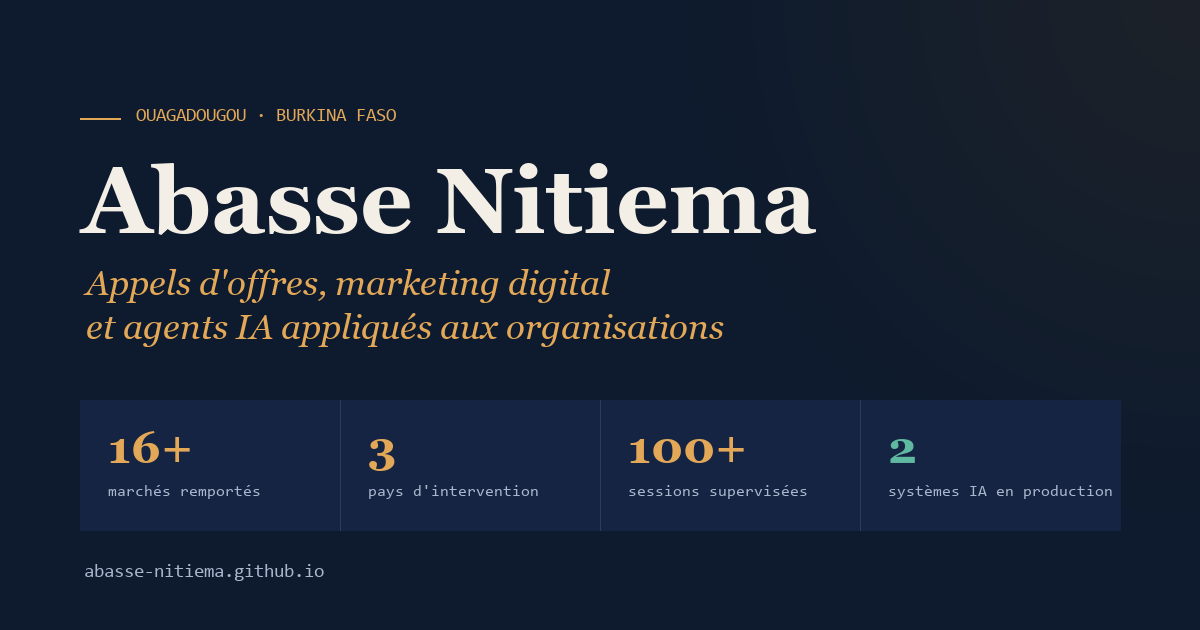
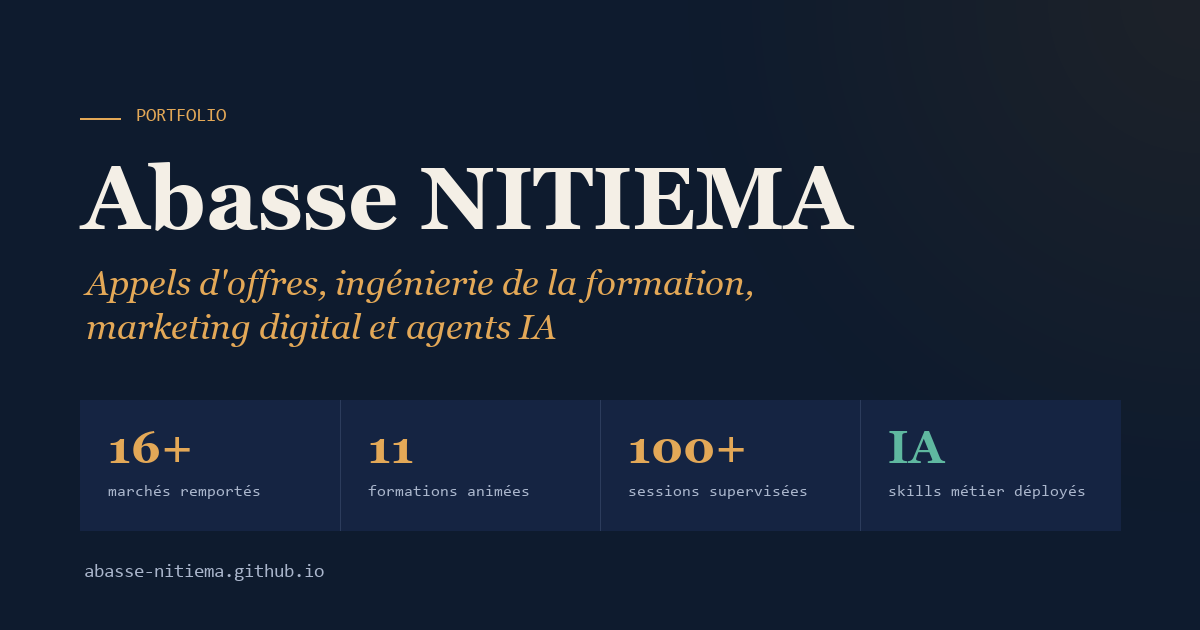
Portfolio : ingénierie de la formation, nom en majuscules, lieux retirés

diff --git a/index.html b/index.html
@@ -3,14 +3,14 @@
 <head>
 <meta charset="UTF-8">
 <meta name="viewport" content="width=device-width, initial-scale=1.0, viewport-fit=cover">
-<title>Abasse Nitiema · Développement international, marketing digital et IA appliquée</title>
-<meta name="description" content="Portfolio d'Abasse Nitiema, Responsable de la Prospection Internationale et de l'Innovation chez Building Business. Prospection, appels d'offres (plus de 16 marchés remportés), communication et marketing digital, et des skills d'agents IA construits pour l'équipe du cabinet.">
+<title>Abasse NITIEMA · Appels d'offres, ingénierie de la formation, marketing digital et IA appliquée</title>
+<meta name="description" content="Portfolio d'Abasse NITIEMA, Responsable de la Prospection Internationale et de l'Innovation chez Building Business. Appels d'offres (plus de 16 marchés remportés), ingénierie de la formation, communication et marketing digital, et des skills d'agents IA construits pour l'équipe du cabinet.">
 <link rel="canonical" href="https://abasse-nitiema.github.io/">
 <meta name="theme-color" content="#0E1B2E">
 
 <meta property="og:type" content="profile">
-<meta property="og:title" content="Abasse Nitiema · Développement international, marketing digital et IA appliquée">
-<meta property="og:description" content="Plus de 16 marchés remportés au Burkina Faso, au Niger et en Guinée. Des skills d'agents IA construits pour l'équipe d'un cabinet : réponse aux appels d'offres, formation, communication. Une méthode transposable.">
+<meta property="og:title" content="Abasse NITIEMA · Appels d'offres, ingénierie de la formation, marketing digital et IA appliquée">
+<meta property="og:description" content="Plus de 16 marchés remportés. Des skills d'agents IA construits pour l'équipe d'un cabinet : réponse aux appels d'offres, formation, communication. Une méthode transposable.">
 <meta property="og:url" content="https://abasse-nitiema.github.io/">
 <meta property="og:image" content="https://abasse-nitiema.github.io/assets/og-abasse-nitiema.png">
 <meta property="og:image:width" content="1200">
@@ -18,7 +18,7 @@
 <meta property="og:locale" content="fr_FR">
 <meta property="og:locale:alternate" content="en_US">
 <meta name="twitter:card" content="summary_large_image">
-<meta name="twitter:title" content="Abasse Nitiema · Développement international, marketing digital et IA appliquée">
+<meta name="twitter:title" content="Abasse NITIEMA · Appels d'offres, ingénierie de la formation, marketing digital et IA appliquée">
 <meta name="twitter:description" content="Plus de 16 marchés remportés. Des skills d'agents IA pour l'équipe : appels d'offres, formation, communication.">
 <meta name="twitter:image" content="https://abasse-nitiema.github.io/assets/og-abasse-nitiema.png">
 
@@ -26,7 +26,7 @@
 {
   "@context": "https://schema.org",
   "@type": "Person",
-  "name": "Abasse Nitiema",
+  "name": "Abasse NITIEMA",
   "url": "https://abasse-nitiema.github.io/",
   "email": "mailto:abassenitiema4@gmail.com",
   "telephone": "+22672919005",
@@ -292,7 +292,7 @@ svg.chain{ width:100%; height:auto; display:block; }
 @media (prefers-reduced-motion: reduce){ .pulse{ animation:none; opacity:0.9; } }
 
 /* ---------- PILLARS ---------- */
-.pillars{ display:grid; grid-template-columns:repeat(3,1fr); gap:1px; background:var(--line); border:1px solid var(--line); }
+.pillars{ display:grid; grid-template-columns:repeat(2,1fr); gap:1px; background:var(--line); border:1px solid var(--line); }
 @media (max-width:860px){ .pillars{ grid-template-columns:1fr; } }
 .pillar{ background:var(--panel); padding:clamp(22px, 3vw, 30px) clamp(18px, 3vw, 26px); }
 .pillar .tag{ font-family:var(--mono); font-size:11px; color:var(--signal); letter-spacing:0.08em; text-transform:uppercase; margin-bottom:14px; display:block; }
@@ -408,9 +408,9 @@ footer{ padding:clamp(56px, 7vw, 84px) 0 40px; border-top:1px solid var(--line);
   <div class="wrap">
     <div class="hero-grid">
       <div>
-        <div class="eyebrow">Abasse Nitiema · Ouagadougou, Burkina Faso</div>
+        <div class="eyebrow">Abasse NITIEMA · Portfolio</div>
         <h1 data-i18n="hero-h1">Je monte les offres qui remportent des marchés, <em>et je construis les agents IA</em> qui font gagner du temps aux équipes.</h1>
-        <p class="lead" data-i18n="hero-lead">Responsable de la Prospection Internationale et de l'Innovation chez <strong>Building Business</strong>, cabinet certifié ISO&nbsp;9001 et ISO&nbsp;21001. Plus de 16 marchés remportés depuis 2019 au Burkina Faso, au Niger et en Guinée. De cette pratique, j'ai tiré une méthode d'automatisation que j'applique aux appels d'offres, à la communication et aux autres processus d'une organisation.</p>
+        <p class="lead" data-i18n="hero-lead">Responsable de la Prospection Internationale et de l'Innovation chez <strong>Building Business</strong>, cabinet certifié ISO&nbsp;9001 et ISO&nbsp;21001. Plus de 16 marchés remportés depuis 2019 auprès d'institutions publiques, d'entreprises et de bailleurs internationaux. De cette pratique, j'ai tiré une méthode d'automatisation que j'applique aux appels d'offres, à la formation, à la communication et aux autres processus d'une organisation.</p>
         <div class="hero-ctas">
           <a class="btn-primary" href="#systemes" data-i18n="hero-cta2">Voir les systèmes</a>
           <a class="btn-ghost" href="#offre" data-i18n="hero-cta1">Travailler avec moi</a>
@@ -421,8 +421,8 @@ footer{ padding:clamp(56px, 7vw, 84px) 0 40px; border-top:1px solid var(--line);
         <div class="cap" id="brief-cap" data-i18n="br-cap">En bref</div>
         <dl>
           <div class="row"><dt data-i18n="br-l1">Poste</dt><dd data-i18n="br-v1">Responsable de la Prospection Internationale et de l'Innovation<span>Building Business, depuis septembre 2026</span></dd></div>
-          <div class="row"><dt data-i18n="br-l2">Métiers</dt><dd data-i18n="br-v2">Prospection et appels d'offres<span>Communication et marketing digital · IA appliquée</span></dd></div>
-          <div class="row"><dt data-i18n="br-l3">Terrain</dt><dd data-i18n="br-v3">Burkina Faso, Niger, Guinée<span>institutions publiques, entreprises, bailleurs internationaux</span></dd></div>
+          <div class="row"><dt data-i18n="br-l2">Métiers</dt><dd data-i18n="br-v2">Appels d'offres · Ingénierie de la formation<span>Communication et marketing digital · IA appliquée</span></dd></div>
+          <div class="row"><dt data-i18n="br-l3">Clients</dt><dd data-i18n="br-v3">Institutions publiques, entreprises<span>bailleurs internationaux</span></dd></div>
           <div class="row"><dt data-i18n="br-l4">Formation</dt><dd data-i18n="br-v4">Master II, Management des organisations<span>PECB ISO&nbsp;9001 Provisional Auditor</span></dd></div>
           <div class="row"><dt data-i18n="br-l5">Langues</dt><dd data-i18n="br-v5">Français · anglais professionnel · mooré</dd></div>
         </dl>
@@ -431,7 +431,7 @@ footer{ padding:clamp(56px, 7vw, 84px) 0 40px; border-top:1px solid var(--line);
     </div>
 
     <div class="band" role="list">
-      <div class="kpi" role="listitem"><div class="n">16+</div><div class="l" data-i18n="k1">marchés remportés au Burkina Faso, au Niger et en Guinée</div></div>
+      <div class="kpi" role="listitem"><div class="n">16+</div><div class="l" data-i18n="k1">marchés remportés auprès d'institutions publiques et de bailleurs</div></div>
       <div class="kpi" role="listitem"><div class="n"><small data-i18n="k2u">depuis</small> 2019</div><div class="l" data-i18n="k2">en cabinet de conseil et de formation certifié ISO</div></div>
       <div class="kpi" role="listitem"><div class="n">100+</div><div class="l" data-i18n="k3">sessions de formation supervisées en qualité</div></div>
       <div class="kpi" role="listitem"><div class="n">11</div><div class="l" data-i18n="k4">formations animées en digital, marketing et IA</div></div>
@@ -447,7 +447,7 @@ footer{ padding:clamp(56px, 7vw, 84px) 0 40px; border-top:1px solid var(--line);
       <h2 data-i18n="par-h2">Un pied dans la rigueur institutionnelle, un pied dans l'outillage moderne.</h2>
       <p data-i18n="par-p1">Depuis septembre 2026, je pilote le <strong>Service de Prospection Internationale et d'Innovation</strong> de Building Business, rattaché à la Direction Générale&nbsp;: développement commercial hors Burkina, appels d'offres internationaux et adoption de l'IA dans les pratiques du cabinet.</p>
       <p data-i18n="par-p2">De 2019 à 2026, Responsable Communication, en charge aussi du marketing digital&nbsp;: construire l'image et la notoriété du cabinet, piloter le site, les réseaux sociaux, les campagnes publicitaires et l'emailing, avec une finalité commerciale assumée, <strong>générer des prospects qualifiés et les convertir en clients</strong>.</p>
-      <p data-i18n="par-p2b">Dans ce même poste, j'ai monté en autonomie les dossiers d'appels d'offres du cabinet&nbsp;: <strong>plus de 16 marchés remportés</strong> auprès d'institutions publiques, d'entreprises et de bailleurs internationaux. J'ai également suivi la qualité pédagogique et logistique de plus de 100 sessions de formation.</p>
+      <p data-i18n="par-p2b">Dans ce même poste, j'ai monté les dossiers d'appels d'offres du cabinet&nbsp;: <strong>plus de 16 marchés remportés</strong> auprès d'institutions publiques, d'entreprises et de bailleurs internationaux. J'ai également suivi la qualité pédagogique et logistique de plus de 100 sessions de formation.</p>
       <p data-i18n="par-p3">Ma conviction&nbsp;: la valeur de l'IA ne tient pas à l'outil, mais à la capacité d'orchestrer des agents autour d'un problème métier réel et de transformer le savoir-faire d'une organisation en règles réutilisables.</p>
     </div>
     <ol class="timeline reveal">
@@ -491,8 +491,8 @@ footer{ padding:clamp(56px, 7vw, 84px) 0 40px; border-top:1px solid var(--line);
     <div class="comp-top">
       <div class="reveal">
         <div class="eyebrow" data-i18n="comp-eyebrow">Ce que je fais</div>
-        <h2 data-i18n="comp-h2">Trois compétences qui se renforcent l'une l'autre</h2>
-        <p class="intro" data-i18n="comp-intro">Je ne traite pas la prospection, le marketing et l'automatisation comme des tâches séparées&nbsp;: chaque étape alimente la suivante, du repérage d'une opportunité jusqu'à la mesure des résultats.</p>
+        <h2 data-i18n="comp-h2">Quatre compétences qui se renforcent l'une l'autre</h2>
+        <p class="intro" data-i18n="comp-intro">Je ne traite pas la prospection, la formation, le marketing et l'automatisation comme des tâches séparées&nbsp;: chaque étape alimente la suivante, du repérage d'une opportunité jusqu'à la mesure des résultats.</p>
       </div>
       <div class="chain-card reveal">
         <div class="cap" data-i18n="chain-cap">Comment je travaille&nbsp;: une chaîne, pas des tâches isolées</div>
@@ -535,7 +535,18 @@ footer{ padding:clamp(56px, 7vw, 84px) 0 40px; border-top:1px solid var(--line);
         </ul>
       </div>
       <div class="pillar">
-        <span class="tag" data-i18n="p2-tag">02 · Communication</span>
+        <span class="tag" data-i18n="pf-tag">02 · Formation</span>
+        <h3 data-i18n="pf-h3">Ingénierie de la formation</h3>
+        <ul>
+          <li data-i18n="pf-1">Analyse des besoins, conception des programmes et des modules</li>
+          <li data-i18n="pf-2">Fiches techniques, itinéraires pédagogiques et supports</li>
+          <li data-i18n="pf-3">Organisation et suivi qualité de plus de 100 sessions</li>
+          <li data-i18n="pf-4">Évaluation, rapports de fin de session et suivi post-formation</li>
+          <li data-i18n="pf-5">Animation de formations en digital, marketing et IA</li>
+        </ul>
+      </div>
+      <div class="pillar">
+        <span class="tag" data-i18n="p2-tag">03 · Communication</span>
         <h3 data-i18n="p2-h3">Communication et marketing digital</h3>
         <ul>
           <li data-i18n="p2-1">Stratégie de communication digitale</li>
@@ -553,7 +564,7 @@ footer{ padding:clamp(56px, 7vw, 84px) 0 40px; border-top:1px solid var(--line);
         </div>
       </div>
       <div class="pillar">
-        <span class="tag" data-i18n="p3-tag">03 · Systèmes</span>
+        <span class="tag" data-i18n="p3-tag">04 · Systèmes</span>
         <h3 data-i18n="p3-h3">Automatisation et IA appliquée</h3>
         <ul>
           <li data-i18n="p3-1">Agents IA métier sur mesure avec Claude Code</li>
@@ -838,8 +849,8 @@ footer{ padding:clamp(56px, 7vw, 84px) 0 40px; border-top:1px solid var(--line);
     </div>
     <div class="faq-list reveal">
       <details class="faq-item" open>
-        <summary data-i18n="q1">Qui est Abasse Nitiema&nbsp;?</summary>
-        <div class="faq-a" data-i18n="a1">Responsable de la Prospection Internationale et de l'Innovation chez Building Business, cabinet de conseil, de formation et d'études certifié ISO&nbsp;9001 et ISO&nbsp;21001, basé à Ouagadougou avec des bureaux à Casablanca et Abidjan. Depuis septembre 2026, il pilote le service rattaché à la Direction Générale qui porte le développement international et l'innovation. De 2019 à août 2026, il a été Responsable Communication du cabinet et a monté en autonomie ses dossiers d'appels d'offres, avec plus de 16 marchés remportés au Burkina Faso, au Niger et en Guinée.</div>
+        <summary data-i18n="q1">Qui est Abasse NITIEMA&nbsp;?</summary>
+        <div class="faq-a" data-i18n="a1">Responsable de la Prospection Internationale et de l'Innovation chez Building Business, cabinet de conseil, de formation et d'études certifié ISO&nbsp;9001 et ISO&nbsp;21001, basé à Ouagadougou avec des bureaux à Casablanca et Abidjan. Depuis septembre 2026, il pilote le service rattaché à la Direction Générale qui porte le développement international et l'innovation. De 2019 à août 2026, il a été Responsable Communication du cabinet et a monté ses dossiers d'appels d'offres, avec plus de 16 marchés remportés.</div>
       </details>
       <details class="faq-item">
         <summary data-i18n="q2">Que fait l'agent de réponse aux appels d'offres&nbsp;?</summary>
@@ -866,7 +877,7 @@ footer{ padding:clamp(56px, 7vw, 84px) 0 40px; border-top:1px solid var(--line);
   "@context": "https://schema.org",
   "@type": "FAQPage",
   "mainEntity": [
-    { "@type": "Question", "name": "Qui est Abasse Nitiema ?", "acceptedAnswer": { "@type": "Answer", "text": "Responsable de la Prospection Internationale et de l'Innovation chez Building Business, cabinet de conseil, de formation et d'études certifié ISO 9001 et ISO 21001, basé à Ouagadougou. Depuis septembre 2026, il pilote le service rattaché à la Direction Générale qui porte le développement international et l'innovation. Il a remporté plus de 16 marchés au Burkina Faso, au Niger et en Guinée." } },
+    { "@type": "Question", "name": "Qui est Abasse NITIEMA ?", "acceptedAnswer": { "@type": "Answer", "text": "Responsable de la Prospection Internationale et de l'Innovation chez Building Business, cabinet de conseil, de formation et d'études certifié ISO 9001 et ISO 21001, basé à Ouagadougou. Depuis septembre 2026, il pilote le service rattaché à la Direction Générale qui porte le développement international et l'innovation. Il a remporté plus de 16 marchés." } },
     { "@type": "Question", "name": "Que fait l'agent de réponse aux appels d'offres ?", "acceptedAnswer": { "@type": "Answer", "text": "Il couvre la réponse aux appels d'offres de bout en bout : veille hebdomadaire, analyse du dossier avec recommandation go ou no-go, génération des offres technique et financière, contrôle automatique page par page et préparation du dépôt. Sur son premier dossier réel, il a produit en 4 jours une offre technique de 115 pages et une offre financière de 12 pages. Les décisions restent humaines." } },
     { "@type": "Question", "name": "Comment fonctionne la chaîne éditoriale ?", "acceptedAnswer": { "@type": "Answer", "text": "Elle part de l'actualité réelle des métiers du cabinet, vérifiée aux sources primaires, et produit l'article pour le site, sa fiche SEO, les visuels à la charte et les textes adaptés à LinkedIn et aux pages Facebook du Burkina Faso et de la Côte d'Ivoire. Chaque publication est relue et validée avant diffusion." } },
     { "@type": "Question", "name": "Quelles sont ses formations et certifications ?", "acceptedAnswer": { "@type": "Answer", "text": "Master II en Management des entreprises et des organisations (Building Capacity Institute, 2022, mémoire soutenu en 2025), Licence professionnelle en Communication d'entreprises (Institut Africain de Management, 2017), PECB ISO 9001 Provisional Auditor (2019), TeamBuilder Pro en cours (2026)." } },
@@ -887,7 +898,7 @@ footer{ padding:clamp(56px, 7vw, 84px) 0 40px; border-top:1px solid var(--line);
         <a class="btn-ghost" href="https://linkedin.com/in/abasse-nitiema" target="_blank" rel="noopener">LinkedIn ↗</a>      </div>
     </div>
     <div class="foot-meta">
-      <span>Abasse Nitiema · Ouagadougou, Burkina Faso</span>
+      <span>Abasse NITIEMA</span>
       <span data-i18n="f-upd">Mis à jour · novembre 2026</span>
     </div>
   </div>
@@ -910,7 +921,7 @@ const translations = {
   "nav-contact": {en:"Get in touch"},
 
   "hero-h1": {en:"I build the bids that win contracts, <em>and the AI agents</em> that save teams time."},
-  "hero-lead": {en:"Head of International Prospecting and Innovation at <strong>Building Business</strong>, an ISO 9001 and ISO 21001 certified firm. More than 16 contracts won since 2019 in Burkina Faso, Niger and Guinea. From that practice I drew an automation method, which I apply to tenders, communication and an organisation's other processes."},
+  "hero-lead": {en:"Head of International Prospecting and Innovation at <strong>Building Business</strong>, an ISO 9001 and ISO 21001 certified firm. More than 16 contracts won since 2019 from public institutions, companies and international donors. From that practice I drew an automation method, which I apply to tenders, training, communication and an organisation's other processes."},
   "of-eyebrow": {en:"Work with me"},
   "of-h2": {en:"Three ways to start"},
   "of1-k": {en:"Assignment 01 · to decide"},
@@ -932,9 +943,9 @@ const translations = {
   "br-l1": {en:"Role"},
   "br-v1": {en:"Head of International Prospecting and Innovation<span>Building Business, since September 2026</span>"},
   "br-l2": {en:"Fields"},
-  "br-v2": {en:"Prospecting and tenders<span>Communication and digital marketing · Applied AI</span>"},
-  "br-l3": {en:"Markets"},
-  "br-v3": {en:"Burkina Faso, Niger, Guinea<span>public institutions, companies, international donors</span>"},
+  "br-v2": {en:"Tenders · Training design<span>Communication and digital marketing · Applied AI</span>"},
+  "br-l3": {en:"Clients"},
+  "br-v3": {en:"Public institutions, companies<span>international donors</span>"},
   "br-l4": {en:"Education"},
   "br-v4": {en:"Master's, Organisation Management<span>PECB ISO 9001 Provisional Auditor</span>"},
   "br-l5": {en:"Languages"},
@@ -961,7 +972,7 @@ const translations = {
   "o2-n": {en:"3 channels"},
   "o2-s": {en:"website, LinkedIn, Facebook, 2 countries"},
   "loop": {en:"<b>↻</b>Every approved correction becomes a rule the system applies on its own."},
-  "k1": {en:"contracts won in Burkina Faso, Niger and Guinea"},
+  "k1": {en:"contracts won from public institutions and donors"},
   "k2": {en:"in an ISO-certified consulting and training firm"},
   "k3": {en:"training sessions supervised for quality"},
   "k4": {en:"courses delivered in digital, marketing and AI"},
@@ -1043,7 +1054,7 @@ const translations = {
   "par-h2": {en:"One foot in institutional rigor, one in modern tooling."},
   "par-p1": {en:"Since September 2026, I lead the <strong>International Prospecting and Innovation Service</strong> at Building Business, reporting to the General Directorate: business development outside Burkina Faso, international tenders and AI adoption across the firm's practices."},
   "par-p2": {en:"From 2019 to 2026, Communication Manager, also in charge of digital marketing: building the firm's image and visibility, running the website, social media, ad campaigns and emailing, with an openly commercial purpose, <strong>generating qualified leads and converting them into clients</strong>."},
-  "par-p2b": {en:"In that same role, I built the firm's tender files single-handedly: <strong>more than 16 contracts won</strong> from public institutions, companies and international donors. I also oversaw the pedagogical and logistical quality of more than 100 training sessions."},
+  "par-p2b": {en:"In that same role, I built the firm's tender files: <strong>more than 16 contracts won</strong> from public institutions, companies and international donors. I also oversaw the pedagogical and logistical quality of more than 100 training sessions."},
   "par-p3": {en:"My conviction: AI's value lies not in the tool, but in the ability to orchestrate agents around a real business problem and turn an organisation's know-how into reusable rules."},
   "t1-d": {en:"Since Sept. 2026"},
   "t1-t": {en:"Head of International Prospecting and Innovation"},
@@ -1062,8 +1073,8 @@ const translations = {
   "t6-x": {en:"Finding Business Opportunities, procurement in World Bank operations · HubSpot Digital Marketing Certified (valid until December 2028)"},
 
   "comp-eyebrow": {en:"What I do"},
-  "comp-h2": {en:"Three skills that reinforce one another"},
-  "comp-intro": {en:"I do not treat prospecting, marketing and automation as separate tasks: each step feeds the next, from spotting an opportunity to measuring results."},
+  "comp-h2": {en:"Four skills that reinforce one another"},
+  "comp-intro": {en:"I do not treat prospecting, training, marketing and automation as separate tasks: each step feeds the next, from spotting an opportunity to measuring results."},
   "chain-cap": {en:"How I work: a chain, not isolated tasks"},
   "ch1": {en:"Watch"},
   "ch1s": {en:"markets · trends"},
@@ -1079,7 +1090,14 @@ const translations = {
   "p1-2": {en:"Opportunity qualification and score simulation"},
   "p1-3": {en:"Full technical and financial proposal drafting"},
   "p1-4": {en:"Mission coordination, from kick-off to final report"},
-  "p2-tag": {en:"02 · Communication"},
+  "pf-tag": {en:"02 · Training"},
+  "pf-h3": {en:"Training design"},
+  "pf-1": {en:"Needs analysis, programme and module design"},
+  "pf-2": {en:"Course outlines, learning paths and materials"},
+  "pf-3": {en:"Organisation and quality monitoring of more than 100 sessions"},
+  "pf-4": {en:"Evaluation, end-of-session reports and post-training follow-up"},
+  "pf-5": {en:"Delivering training in digital, marketing and AI"},
+  "p2-tag": {en:"03 · Communication"},
   "p2-h3": {en:"Communication and digital marketing"},
   "p2-1": {en:"Digital communication strategy"},
   "p2-2": {en:"Web writing, SEO and multichannel adaptation per country"},
@@ -1091,7 +1109,7 @@ const translations = {
   "p2-l1": {en:"Firm's website ↗"},
   "p2-l2": {en:"Facebook page ↗"},
   "p2-l3": {en:"LinkedIn page ↗"},
-  "p3-tag": {en:"03 · Systems"},
+  "p3-tag": {en:"04 · Systems"},
   "p3-h3": {en:"Automation and applied AI"},
   "p3-1": {en:"Custom business AI agents with Claude Code"},
   "p3-2": {en:"Automated workflows with Make.com, n8n and APIs"},
@@ -1125,8 +1143,8 @@ const translations = {
 
   "faq-eyebrow": {en:"Frequently asked"},
   "faq-h2": {en:"What people usually ask"},
-  "q1": {en:"Who is Abasse Nitiema?"},
-  "a1": {en:"Head of International Prospecting and Innovation at Building Business, a consulting, training and studies firm certified ISO 9001 and ISO 21001, based in Ouagadougou with offices in Casablanca and Abidjan. Since September 2026, he leads the service reporting to the General Directorate that drives international development and innovation. From 2019 to August 2026, he was the firm's Communication Manager and built its tender files single-handedly, winning more than 16 contracts across Burkina Faso, Niger and Guinea."},
+  "q1": {en:"Who is Abasse NITIEMA?"},
+  "a1": {en:"Head of International Prospecting and Innovation at Building Business, a consulting, training and studies firm certified ISO 9001 and ISO 21001, based in Ouagadougou with offices in Casablanca and Abidjan. Since September 2026, he leads the service reporting to the General Directorate that drives international development and innovation. From 2019 to August 2026, he was the firm's Communication Manager and built its tender files, winning more than 16 contracts."},
   "q2": {en:"What does the proposal-building agent do?"},
   "a2": {en:"It covers the tender response end to end: weekly watch across nine countries and six donors, file analysis with a simulated score and a go or no-go recommendation, generation of the technical and financial proposals in Word and PDF, automatic page-by-page checks and submission preparation. On its first real case, it produced in 4 days a 115-page technical proposal and a 12-page financial proposal, consistent with each other. Decisions stay human: go or no-go, price, experts, final sign-off."},
   "q3": {en:"How does the editorial pipeline work?"},
